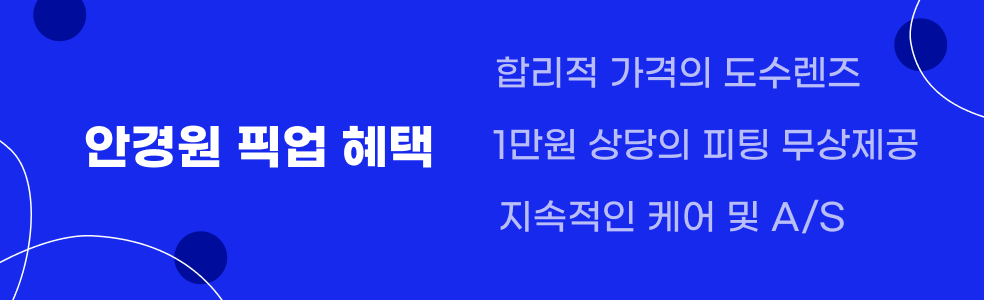
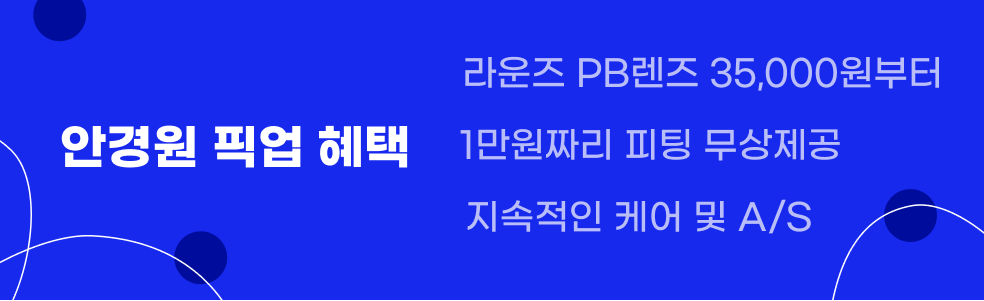
수정사항적용

diff --git a/o2o/Mobile/basket_order_write_glasses_member.html b/o2o/Mobile/basket_order_write_glasses_member.html
@@ -155,9 +155,9 @@
 						<a href="#n" class="map">지도보기</a>
 						<input type="radio" id="1" name="partner_store" />
 						<label for="1">
-							<strong>아프리카안경 현대프리미엄아울렛 김포점</strong>
+							<strong>아프리카안경 김포점</strong>
 							<em>고속터미널역 8번 출구</em>
-							<span>서울특별시 서초구 매헌로 16, 이마트 양재점 지하1층</span>
+							<span>서울특별시 서초구 매헌로 16, 지하1층</span>
 							<span class="handling">
 								<i class="r">라운즈렌즈</i>
 								<i>일반렌즈</i>
@@ -170,7 +170,7 @@
 						<label for="2">
 							<strong>MONOQLE 양재점</strong>
 							<em>부천역 1번출구</em>
-							<span>서울특별시 서초구 매헌로 16, 이마트 양재점 지하1층</span>
+							<span>서울특별시 서초구 매헌로 16, 지하1층</span>
 							<span class="handling">
 								<i class="r">라운즈렌즈</i>
 								<i>일반렌즈</i>
@@ -181,9 +181,9 @@
 						<a href="#n" class="map">지도보기</a>
 						<input type="radio" id="3" name="partner_store" />
 						<label for="3">
-							<strong>MONOQLE 양재점 MONOQLE 양재점 MONOQLE 양재점</strong>
+							<strong>MONOQLE 양재점</strong>
 							<em>부천역 1번출구</em>
-							<span>서울특별시 서초구 매헌로 16, 이마트 양재점 지하1층</span>
+							<span>서울특별시 서초구 매헌로 16, 지하1층</span>
 							<span class="handling">
 								<i>일반렌즈</i>
 							</span>
@@ -193,9 +193,9 @@
 						<a href="#n" class="map">지도보기</a>
 						<input type="radio" id="4" name="partner_store" />
 						<label for="4">
-							<strong>MONOQLE 양재점 MONOQLE 양재점 MONOQLE 양재점</strong>
+							<strong>MONOQLE 양재점</strong>
 							<em>부천역 1번출구</em>
-							<span>서울특별시 서초구 매헌로 16, 이마트 양재점 지하1층</span>
+							<span>서울특별시 서초구 매헌로 16, 지하1층</span>
 							<span class="handling">
 								<i>일반렌즈</i>
 							</span>

diff --git a/o2o/Mobile/css/common.css b/o2o/Mobile/css/common.css
@@ -815,7 +815,7 @@ a.btn_vf.fixed{z-index:50;position:fixed;top:auto;bottom:90px}
 .form_write .delivery_store .find_store .search select{width:calc(50% - 2px)}
 .form_write .delivery_store .find_store .search select:nth-child(n+2){margin-left:4px}
 .form_write .delivery_store .find_store .store_list{display:block;margin-top:10px}
-.form_write .delivery_store .find_store .store_list.overflow{overflow-y:auto;max-height:390px}
+.form_write .delivery_store .find_store .store_list.overflow{overflow-y:auto;max-height:485px}
 .form_write .delivery_store .find_store .store_list li{position:relative;border:1px solid #D6DAE5;padding:20px 12px 20px 48px}
 .form_write .delivery_store .find_store .store_list li input[type="radio"]{width:1px;height:1px}
 .form_write .delivery_store .find_store .store_list li input[type="radio"] + label:before{position:absolute;top:20px;left:12px;margin:0}

diff --git a/o2o/Mobile/detail.html b/o2o/Mobile/detail.html
@@ -142,9 +142,9 @@
 			<!-- <dd class="sold_out">일시품절 상품입니다.</dd> -->
 			<dd class="bluecircle_banner">
 				<ul>
-					<li><img src="./images/img_slide_bluecircle_1.png" alt="" /></li>
-					<li><img src="./images/img_slide_bluecircle_2.png" alt="" /></li>
-					<li><img src="./images/img_slide_bluecircle_3.png" alt="" /></li>
+					<li><img src="./images/img_slide_bluecircle_1.png" alt="라운즈 스탠다드 안경렌즈" /></li>
+					<li><img src="./images/img_slide_bluecircle_2.png" alt="1만원 상당의 피팅 무상제공" /></li>
+					<li><img src="./images/img_slide_bluecircle_3.png" alt="지속적인 A/S" /></li>
 				</ul>
 			</dd>
 			<dd class="inventory">

diff --git a/o2o/Mobile/home.html b/o2o/Mobile/home.html
@@ -263,7 +263,7 @@
 		</div>
 	</section>
 	
-	<section class="banner_area"><a href="#n"><img src="./images/banner_bluecircle.png" alt="안경원 픽업 혜택: 합리적 가격의 도수렌즈 / 1만원 상당의 피팅 무상제공 / 지속적인 케어 및 A/S"></a></section>
+	<section class="banner_area"><a href="https://m.rounz.com/collection.php?collectionIndex=2284"><img src="./images/banner_bluecircle.png" alt="안경원 픽업 혜택: 라운즈 PB렌즈 35,000원부터 / 1만원짜리 피팅 무상제공 / 지속적인 케어 및 A/S"></a></section>
 	
 	<section class="template type_big_single x4 wrap_scroll">
 		<h2 class="txt">전문가의 선택, MD 추천 상품</h2>

diff --git a/o2o/PC/home.html b/o2o/PC/home.html
@@ -574,7 +574,7 @@
 			</article>
 		</section>
 
-		<section class="banner_area"><a href="#n"><img src="./images/banner_bluecircle.png" alt="안경원 픽업 혜택: 합리적 가격의 도수렌즈 / 1만원 상당의 피팅 무상제공 / 지속적인 케어 및 A/S"></a></section>
+		<section class="banner_area"><a href="https://rounz.com/collection.php?collectionIndex=2284"><img src="./images/banner_bluecircle.png" alt="안경원 픽업 혜택: 라운즈 PB렌즈 35,000원부터 / 1만원짜리 피팅 무상제공 / 지속적인 케어 및 A/S"></a></section>
 
 		<section class="contents">
 			<h2>인기 키워드</h2>

diff --git a/o2o/PC/detail.html b/o2o/PC/detail.html
@@ -701,7 +701,7 @@
 			</article>
 		</section>
 
-		<section class="banner_area"><img src="./images/banner_bluecircle.png" alt="안경원 픽업 혜택: 합리적 가격의 도수렌즈 / 1만원 상당의 피팅 무상제공 / 지속적인 케어 및 A/S"></section>
+		<section class="banner_area"><img src="./images/banner_bluecircle.png" alt="안경원 픽업 혜택: 라운즈 PB렌즈 35,000원부터 / 1만원짜리 피팅 무상제공 / 지속적인 케어 및 A/S"></section>
 
 		<section class="detail_banner">
 			<h3>오직 라운즈에서만!</h3>
